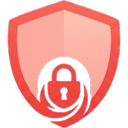
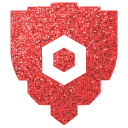
Rebranding T02 — ikony i onboarding rozszerzenia (#41)
Rozszerzenie otrzymuje zatwierdzone logo T02, primary #E54645 oraz
stronę powitalną spójną z landingiem i ekranami logowania panelu.

- Podmieniono źródło logo i ikony 16/32/48/128 px wraz z kontrolowanymi
sumami SHA-256. Popup, onboarding i side panel otrzymały favicon.
- Pełnostronicowy onboarding po instalacji i ekran końcowy mają tarczę
112/96 px, napis 32/30 px i odstęp 24 px.
- Light ma jasny gradient z białym rozjaśnieniem, dark lokalne
monochromatyczne ziarno z łagodnym wygaszeniem. Karty i kontrolki
onboardingu mają nieprzezroczyste tła.
- Ziarno jest lokalnym, autorskim zasobem Palladin na Apache-2.0; źródło
zapisano w dokumentacji.

Wycofany redesign kart popupu nie jest częścią PR-a. Zgłoszenie
brakujących ikon usług pozostaje osobną diagnozą; ten PR nie deklaruje
jego naprawy. Brak nowych uprawnień, hostów, zależności ani zmian
autofill, kryptografii i przechowywania kluczy.

Walidacja: build Chromium/Firefox/Safari i 8 testów onboardingu przeszły
po ostatniej zmianie. Wcześniejsza podmiana ikon przeszła pełny zestaw
746 testów i kontrolę ikon. Podgląd rzeczywistego onboardingu
rozszerzenia wymaga ręcznego sprawdzenia — narzędzie przeglądarki
zablokowało ten adres. Build targetu nie oznacza potwierdzonego wsparcia
sklepu/runtime.

Lokalny adres web panelu 5137 ustawiono tylko w ignorowanym .env.local;
domyślna konfiguracja repozytorium pozostaje bez zmian.

Właściciel zatwierdził uruchomienie CI i scalenie po przejściu
[…]

diff --git a/src/onboarding/onboarding.css b/src/onboarding/onboarding.css
@@ -1,19 +1,30 @@
 :root {
   color-scheme: light;
-  --cv-primary: #eb4747;
+  --cv-primary: #E54645;
   --cv-primary-hover: #d43e3e;
-  --cv-primary-rgb: 235 71 71;
+  --cv-primary-rgb: 229 70 69;
   --cv-success: #10b981;
   --cv-success-rgb: 16 185 129;
   --cv-info: #60a5fa;
   --cv-pending: #ffab87;
   --cv-t1: #0c0e12;
   --cv-t2: #3d4e66;
-  --cv-t3: #8a95a6;
-  --cv-page-bg: linear-gradient(160deg, #f7f9fb 0%, #e8ecf1 100%);
-  --cv-surface: rgba(255, 255, 255, 0.66);
+  --cv-t3: #5a6478;
+  --cv-page-bg: radial-gradient(125% 100% at 72% 0%, #f8fafc 0%, #e3e7ec 46%, #c8cdd6 100%);
+  --cv-auth-logo-glow: radial-gradient(
+    ellipse 69vw max(900px, 110svh) at 50% 22%,
+    rgba(255, 255, 255, 0.98) 0%,
+    rgba(255, 255, 255, 0.98) 14%,
+    rgba(255, 255, 255, 0.68) 30%,
+    rgba(255, 255, 255, 0.16) 44%,
+    rgba(255, 255, 255, 0.055) 54%,
+    transparent 68%
+  );
+  --cv-brand-logo-size: 112px;
+  --cv-brand-wordmark-size: 32px;
+  --cv-surface: #ffffff;
   --cv-surface-solid: #f3f5f8;
-  --cv-surface-raised: rgba(255, 255, 255, 0.82);
+  --cv-surface-raised: #ffffff;
   --cv-border: rgba(12, 14, 18, 0.1);
   --cv-divider: rgba(12, 14, 18, 0.08);
   --cv-soft: rgba(12, 14, 18, 0.04);
@@ -32,9 +43,9 @@
   --cv-t2: #b8c5d4;
   --cv-t3: #8a95a6;
   --cv-page-bg: linear-gradient(160deg, #15171b 0%, #212429 30%, #1a1d22 60%, #15171b 100%);
-  --cv-surface: rgba(0, 0, 0, 0.2);
+  --cv-surface: #17191d;
   --cv-surface-solid: #181b22;
-  --cv-surface-raised: rgba(32, 36, 44, 0.9);
+  --cv-surface-raised: #20242c;
   --cv-border: rgba(232, 234, 237, 0.13);
   --cv-divider: rgba(232, 234, 237, 0.1);
   --cv-soft: rgba(232, 234, 237, 0.05);
@@ -62,6 +73,7 @@ body,
 body {
   min-height: 100vh;
   background: var(--cv-page-bg);
+  background-attachment: fixed;
   color: var(--cv-t1);
   font-family: Inter, ui-sans-serif, system-ui, -apple-system, BlinkMacSystemFont, "Segoe UI", sans-serif;
   -webkit-font-smoothing: antialiased;
@@ -120,15 +132,27 @@ svg {
 .onboarding::before {
   position: fixed;
   z-index: 0;
-  top: -260px;
-  left: 52%;
-  width: 760px;
-  height: 620px;
-  border-radius: 50%;
-  background: radial-gradient(circle, rgb(var(--cv-primary-rgb) / 0.12) 0%, transparent 68%);
+  inset: 0;
+  background: var(--cv-auth-logo-glow);
   content: "";
   pointer-events: none;
-  transform: translateX(-50%);
+}
+
+:root[data-theme="dark"] .onboarding::before {
+  background: url('./assets/brand-grain.svg') repeat;
+  background-size: 180px 180px;
+  mask-image: radial-gradient(
+    ellipse 120vw max(800px, 95svh) at 50% 25%,
+    #000 0%, rgb(0 0 0 / 0.96) 10%, rgb(0 0 0 / 0.85) 20%,
+    rgb(0 0 0 / 0.68) 30%, rgb(0 0 0 / 0.49) 40%,
+    rgb(0 0 0 / 0.31) 50%, rgb(0 0 0 / 0.16) 60%,
+    rgb(0 0 0 / 0.065) 70%, rgb(0 0 0 / 0.018) 80%,
+    rgb(0 0 0 / 0.002) 90%, transparent 100%
+  ), linear-gradient(to bottom, #000 50%, rgb(0 0 0 / 0.95) 60%,
+    rgb(0 0 0 / 0.72) 70%, rgb(0 0 0 / 0.35) 80%,
+    rgb(0 0 0 / 0.08) 90%, transparent 100%);
+  mask-composite: intersect;
+  opacity: 0.18;
 }
 
 .topbar {
@@ -146,7 +170,7 @@ svg {
 .onboarding-brand {
   display: inline-flex;
   align-items: center;
-  gap: 10px;
+  gap: 14px;
   color: var(--cv-t1);
   text-decoration: none;
 }
@@ -232,8 +256,36 @@ svg {
 }
 
 .hero {
+  display: flex;
+  flex-direction: column;
+  align-items: center;
   margin-bottom: 40px;
+  text-align: center;
 }
+
+.onboarding-hero-brand {
+  display: flex;
+  flex-direction: column;
+  align-items: center;
+  gap: 24px;
+  margin-bottom: 28px;
+}
+
+.onboarding-hero-brand img {
+  display: block;
+  width: var(--cv-brand-logo-size);
+  height: auto;
+}
+
+.onboarding-hero-brand p {
+  margin: 0;
+  font-size: var(--cv-brand-wordmark-size);
+  font-weight: 800;
+  line-height: normal;
+  letter-spacing: -0.01em;
+}
+
+.onboarding-hero-brand p span { color: var(--cv-primary); }
 
 .eyebrow,
 .stage__eyebrow {
@@ -1267,10 +1319,6 @@ svg {
   align-items: center;
 }
 
-.onboarding--complete::before {
-  display: none;
-}
-
 .topbar--compact {
   align-self: stretch;
 }
@@ -1292,35 +1340,23 @@ svg {
 .completion-emblem {
   position: relative;
   display: grid;
-  width: 104px;
-  height: 104px;
+  width: var(--cv-brand-logo-size);
   place-items: center;
   margin-bottom: 24px;
-}
-
-.completion-emblem::before {
-  position: absolute;
-  top: 50%;
-  left: 50%;
-  width: 440px;
-  height: 360px;
-  border-radius: 50%;
-  background: radial-gradient(circle, rgb(var(--cv-primary-rgb) / 0.16) 0%, rgb(var(--cv-primary-rgb) / 0.06) 34%, transparent 70%);
-  content: "";
-  pointer-events: none;
-  transform: translate(-50%, -50%);
 }
 
 .completion-logo {
   position: relative;
   z-index: 1;
-  width: 96px;
-  height: 96px;
+  width: var(--cv-brand-logo-size);
+  height: auto;
   object-fit: contain;
 }
 
 .completion h1 {
-  font-size: clamp(34px, 5vw, 48px);
+  font-size: var(--cv-brand-wordmark-size);
+  line-height: normal;
+  letter-spacing: -0.01em;
 }
 
 .completion-title__domain {
@@ -1329,7 +1365,7 @@ svg {
 
 .completion > p:not(.inline-feedback) {
   max-width: 470px;
-  margin: 16px 0 28px;
+  margin: 28px 0 32px;
   color: var(--cv-t2);
   font-size: 15px;
   line-height: 1.6;
@@ -1345,6 +1381,13 @@ svg {
 @media (max-width: 660px) {
   .completion {
     transform: translateY(-24px);
+  }
+}
+
+@media (max-width: 640px) {
+  :root {
+    --cv-brand-logo-size: 96px;
+    --cv-brand-wordmark-size: 30px;
   }
 }
 

diff --git a/src/content/isolated/inline-autofill.ts b/src/content/isolated/inline-autofill.ts
@@ -754,7 +754,7 @@ const INLINE_STYLES = `
   * { box-sizing: border-box; }
   button { font: inherit; letter-spacing: normal; text-transform:none; }
   .launcher { width:26px; height:26px; padding:2px; border:0; border-radius:8px; background:transparent; box-shadow:none; cursor:pointer; pointer-events:auto; }
-  .launcher:hover, .launcher:focus-visible { background:rgba(235,71,71,.1); outline:2px solid rgba(235,71,71,.3); outline-offset:1px; }
+  .launcher:hover, .launcher:focus-visible { background:rgba(229,70,69,.1); outline:2px solid rgba(229,70,69,.3); outline-offset:1px; }
   .launcher img { display:block; width:22px; height:22px; object-fit:contain; }
   .panel { position:absolute; top:34px; left:0; width:min(344px, calc(100vw - 24px)); overflow:hidden; border:1px solid rgba(12,14,18,.1); border-radius:15px; background:linear-gradient(160deg,#f7f9fb 0%,#e8ecf1 100%); color:#0c0e12; box-shadow:0 14px 34px rgba(30,42,58,.16); pointer-events:auto; }
   .title { display:flex; align-items:center; gap:9px; padding:12px 14px; color:#3d4e66; font-size:13px; line-height:1.35; font-weight:750; background:transparent; border-bottom:1px solid rgba(12,14,18,.08); }
@@ -764,7 +764,7 @@ const INLINE_STYLES = `
   .option-row:hover { border-color:rgba(12,14,18,.14); background:#fff; }
   .option { display:flex; align-items:center; width:100%; min-width:0; min-height:63px; padding:9px 10px; border:0; border-radius:10px 0 0 10px; background:transparent; color:inherit; text-align:left; cursor:pointer; }
   .option:hover { background:rgba(12,14,18,.025); }
-  .option:focus-visible { outline:2px solid rgba(235,71,71,.28); outline-offset:-2px; }
+  .option:focus-visible { outline:2px solid rgba(229,70,69,.28); outline-offset:-2px; }
   .submit-login { align-self:stretch; display:flex; align-items:center; justify-content:center; gap:5px; min-width:76px; min-height:63px; padding:0 11px; border:0; border-left:1px solid rgba(12,14,18,.08); border-radius:0 10px 10px 0; background:transparent; color:#d95749; box-shadow:none; font-size:11.5px; line-height:1; font-weight:750; cursor:pointer; }
   .submit-login:hover, .submit-login:focus-visible { border-left-color:rgba(219,86,72,.22); background:#fcecea; color:#c9483c; outline:2px solid rgba(219,86,72,.18); outline-offset:-2px; }
   .entry-text { display:flex; flex-direction:column; min-width:0; gap:2px; }
@@ -782,13 +782,13 @@ const INLINE_STYLES = `
   @keyframes palladin-loading { from { opacity:.42; } to { opacity:.88; } }
   @media (prefers-reduced-motion:reduce) { .loading-lines i, .loading-action { animation:none; } }
   .status { padding:15px 13px; color:#5a6478; font-size:14px; line-height:1.45; }
-  .update-notice { border-left:3px solid #EB4747; }
+  .update-notice { border-left:3px solid #E54645; }
   .session-required { display:grid; gap:8px; padding:12px; }
   .session-required .status { padding:0; }
-  .open-palladin { min-height:36px; border:0; border-radius:8px; background:#EB4747; color:#fff; font:600 13px/1 system-ui,-apple-system,"Segoe UI",sans-serif; cursor:pointer; }
-  .open-palladin:hover, .open-palladin:focus-visible { background:#d63c3c; outline:2px solid rgba(235,71,71,.35); outline-offset:2px; }
+  .open-palladin { min-height:36px; border:0; border-radius:8px; background:#E54645; color:#fff; font:600 13px/1 system-ui,-apple-system,"Segoe UI",sans-serif; cursor:pointer; }
+  .open-palladin:hover, .open-palladin:focus-visible { background:#d63c3c; outline:2px solid rgba(229,70,69,.35); outline-offset:2px; }
   :host([data-theme="dark"]) .panel { background:linear-gradient(160deg,#1f232b 0%,#16191f 100%); color:#e8eaed; border-color:rgba(232,234,237,.1); box-shadow:0 16px 40px rgba(0,0,0,.34); }
-  :host([data-theme="dark"]) .launcher:hover, :host([data-theme="dark"]) .launcher:focus-visible { background:rgba(235,71,71,.18); }
+  :host([data-theme="dark"]) .launcher:hover, :host([data-theme="dark"]) .launcher:focus-visible { background:rgba(229,70,69,.18); }
   :host([data-theme="dark"]) .title { color:#d5dbe4; border-color:rgba(232,234,237,.09); }
   :host([data-theme="dark"]) .option-row { border-color:rgba(232,234,237,.1); background:rgba(232,234,237,.05); }
   :host([data-theme="dark"]) .option-row:hover { border-color:rgba(232,234,237,.17); background:rgba(232,234,237,.07); }

diff --git a/src/content/isolated/credential-toast.ts b/src/content/isolated/credential-toast.ts
@@ -245,7 +245,7 @@ export class CredentialCaptureToast {
 }
 
 const STYLES = `
-  :host { color-scheme:light; --cv-primary:#eb4747; --cv-primary-hover:#d43e3e;
+  :host { color-scheme:light; --cv-primary:#E54645; --cv-primary-hover:#d43e3e;
     --cv-bg:#f3f5f8; --cv-surface:#fff; --cv-t1:#0c0e12; --cv-t2:#3d4e66;
     --cv-border:rgba(12,14,18,.1); --cv-subtle:rgba(12,14,18,.05); }
   :host([data-theme="dark"]) { color-scheme:dark; --cv-bg:#16161a; --cv-surface:#1f232b;

diff --git a/src/onboarding/OnboardingApp.tsx b/src/onboarding/OnboardingApp.tsx
@@ -187,6 +187,10 @@ export function OnboardingApp({
       <TopBar preferences={preferences} />
       <div className="onboarding-shell">
         <header className="hero">
+          <div className="onboarding-hero-brand" aria-label="Palladin.io">
+            <img src={brandLogoUrl} alt="" />
+            <p>Palladin<span>.io</span></p>
+          </div>
           <h1>{t("onboarding.page.title")}</h1>
           <p>{t("onboarding.page.subtitle")}</p>
         </header>

diff --git a/src/onboarding/index.html b/src/onboarding/index.html
@@ -4,6 +4,7 @@
     <meta charset="UTF-8" />
     <meta name="viewport" content="width=device-width, initial-scale=1.0" />
     <meta name="color-scheme" content="light dark" />
+    <link rel="icon" type="image/png" sizes="32x32" href="../../icons/icon-32.png" />
     <title>Palladin.io</title>
   </head>
   <body>

diff --git a/src/popup/index.html b/src/popup/index.html
@@ -4,6 +4,7 @@
     <meta charset="UTF-8" />
     <meta name="viewport" content="width=device-width, initial-scale=1.0" />
     <meta name="color-scheme" content="light dark" />
+    <link rel="icon" type="image/png" sizes="32x32" href="../../icons/icon-32.png" />
     <title>Palladin</title>
   </head>
   <body>

diff --git a/src/side-panel/index.html b/src/side-panel/index.html
@@ -4,6 +4,7 @@
     <meta charset="UTF-8" />
     <meta name="viewport" content="width=device-width, initial-scale=1.0" />
     <meta name="color-scheme" content="light dark" />
+    <link rel="icon" type="image/png" sizes="32x32" href="../../icons/icon-32.png" />
     <title>Palladin</title>
   </head>
   <body>

diff --git a/src/popup/popup.css b/src/popup/popup.css
@@ -5,9 +5,9 @@
  */
 
 :root {
-  --cv-primary: #eb4747;
+  --cv-primary: #E54645;
   --cv-primary-hover: #d43e3e;
-  --cv-primary-rgb: 235 71 71;
+  --cv-primary-rgb: 229 70 69;
   --cv-success: #10b981;
   --cv-app-background: linear-gradient(160deg, #f7f9fb 0%, #e8ecf1 100%);
 

diff --git a/docs/ARCHITECTURE.md b/docs/ARCHITECTURE.md
@@ -268,6 +268,15 @@ a future onboarding version deliberately uses a new key. No installed software
 metadata is stored, logged, analysed, or sent to Palladin.
 
 Fresh installation also opens the branded full-page onboarding surface. Its
+hero and completion screen reuse the approved logo at the landing's proportions:
+112px shield (96px on narrow screens), 32px wordmark (30px narrow), and a 24px
+gap. Light uses the web-auth white bloom over its pale radial background;
+dark uses the locally bundled monochrome grain with an eased fade. Onboarding
+content/control surfaces are opaque and primary remains `#E54645` in both
+themes. `src/onboarding/assets/brand-grain.svg` is copied unchanged from the
+Palladin landing's project-authored Apache-2.0 decorative source asset.
+
+The onboarding
 import action uses the value-free web-panel intent `/vaults?intent=import`;
 after login, unlock, and authoritative Member sync, the panel resolves the
 server-owned default Vault marker and opens that Vault's existing client-side

diff --git a/AGENTS.md b/AGENTS.md
@@ -173,7 +173,7 @@ backend. **No `*-viewed` events** - screen/tab views are covered generically.
 - **Copy uses a plain hyphen `-`,** never an em dash or en dash. No all-caps in UI
   (no `text-transform: uppercase`) - render strings in the case written.
 - **Colors** mirror the web panel `--cv-*` tokens; do not invent brand hexes
-  (brand red is `#EB4747`).
+  (brand red is `#E54645`).
 - **Every user-facing string is localized.** English and Polish catalogs are
   required from the first implementation; never add literal UI copy in a React
   component. Keep popup catalogs and manifest `_locales` in exact key parity,

diff --git a/CLAUDE.md b/CLAUDE.md
@@ -173,7 +173,7 @@ backend. **No `*-viewed` events** - screen/tab views are covered generically.
 - **Copy uses a plain hyphen `-`,** never an em dash or en dash. No all-caps in UI
   (no `text-transform: uppercase`) - render strings in the case written.
 - **Colors** mirror the web panel `--cv-*` tokens; do not invent brand hexes
-  (brand red is `#EB4747`).
+  (brand red is `#E54645`).
 - **Every user-facing string is localized.** English and Polish catalogs are
   required from the first implementation; never add literal UI copy in a React
   component. Keep popup catalogs and manifest `_locales` in exact key parity,

diff --git a/docs/CREDENTIAL-CAPTURE.md b/docs/CREDENTIAL-CAPTURE.md
@@ -16,7 +16,7 @@ The popup settings reuse the existing SettingsSection and Button controls.
 
 Design direction follows the existing extension: system font, 14px primary
 copy/12px secondary copy, left-aligned content, brand red primary action, existing
-light/dark palette (#EB4747, #F3F5F8, #FFFFFF, #0C0E12, #16161A, #E8EAED).
+light/dark palette (#E54645, #F3F5F8, #FFFFFF, #0C0E12, #16161A, #E8EAED).
 The only prominent action is the named write target; selectors are deferred.
 
 ```text
